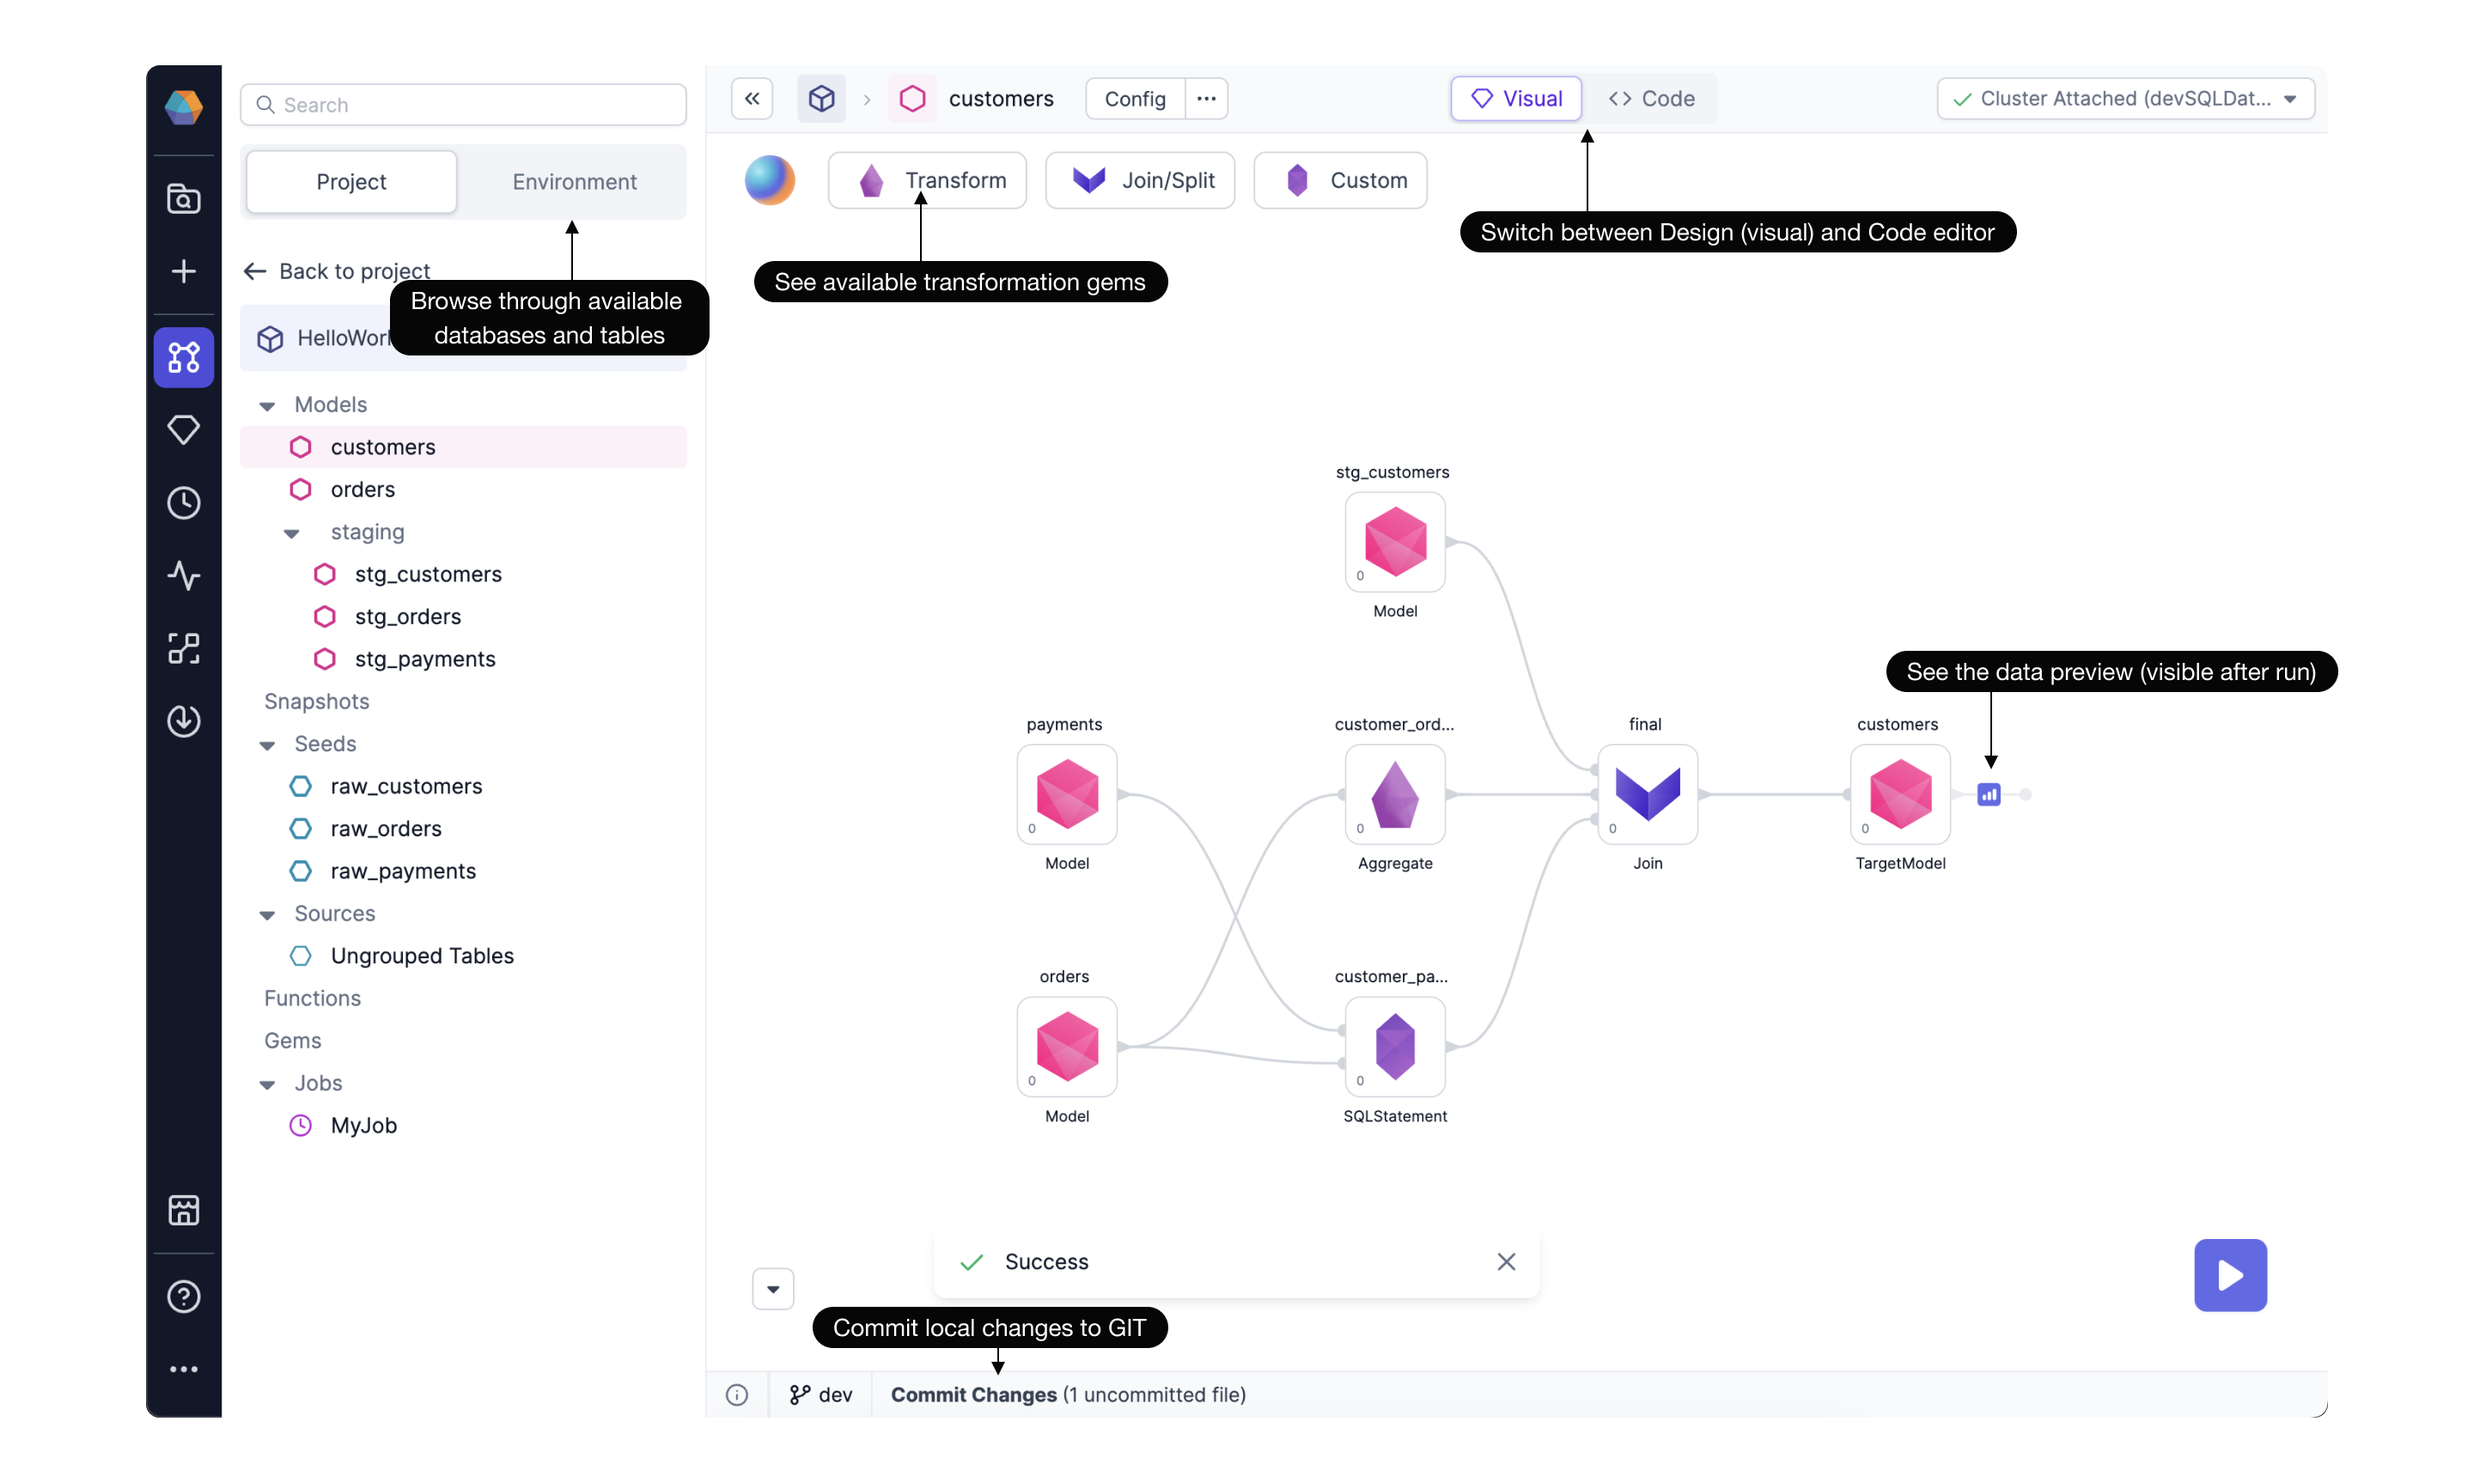
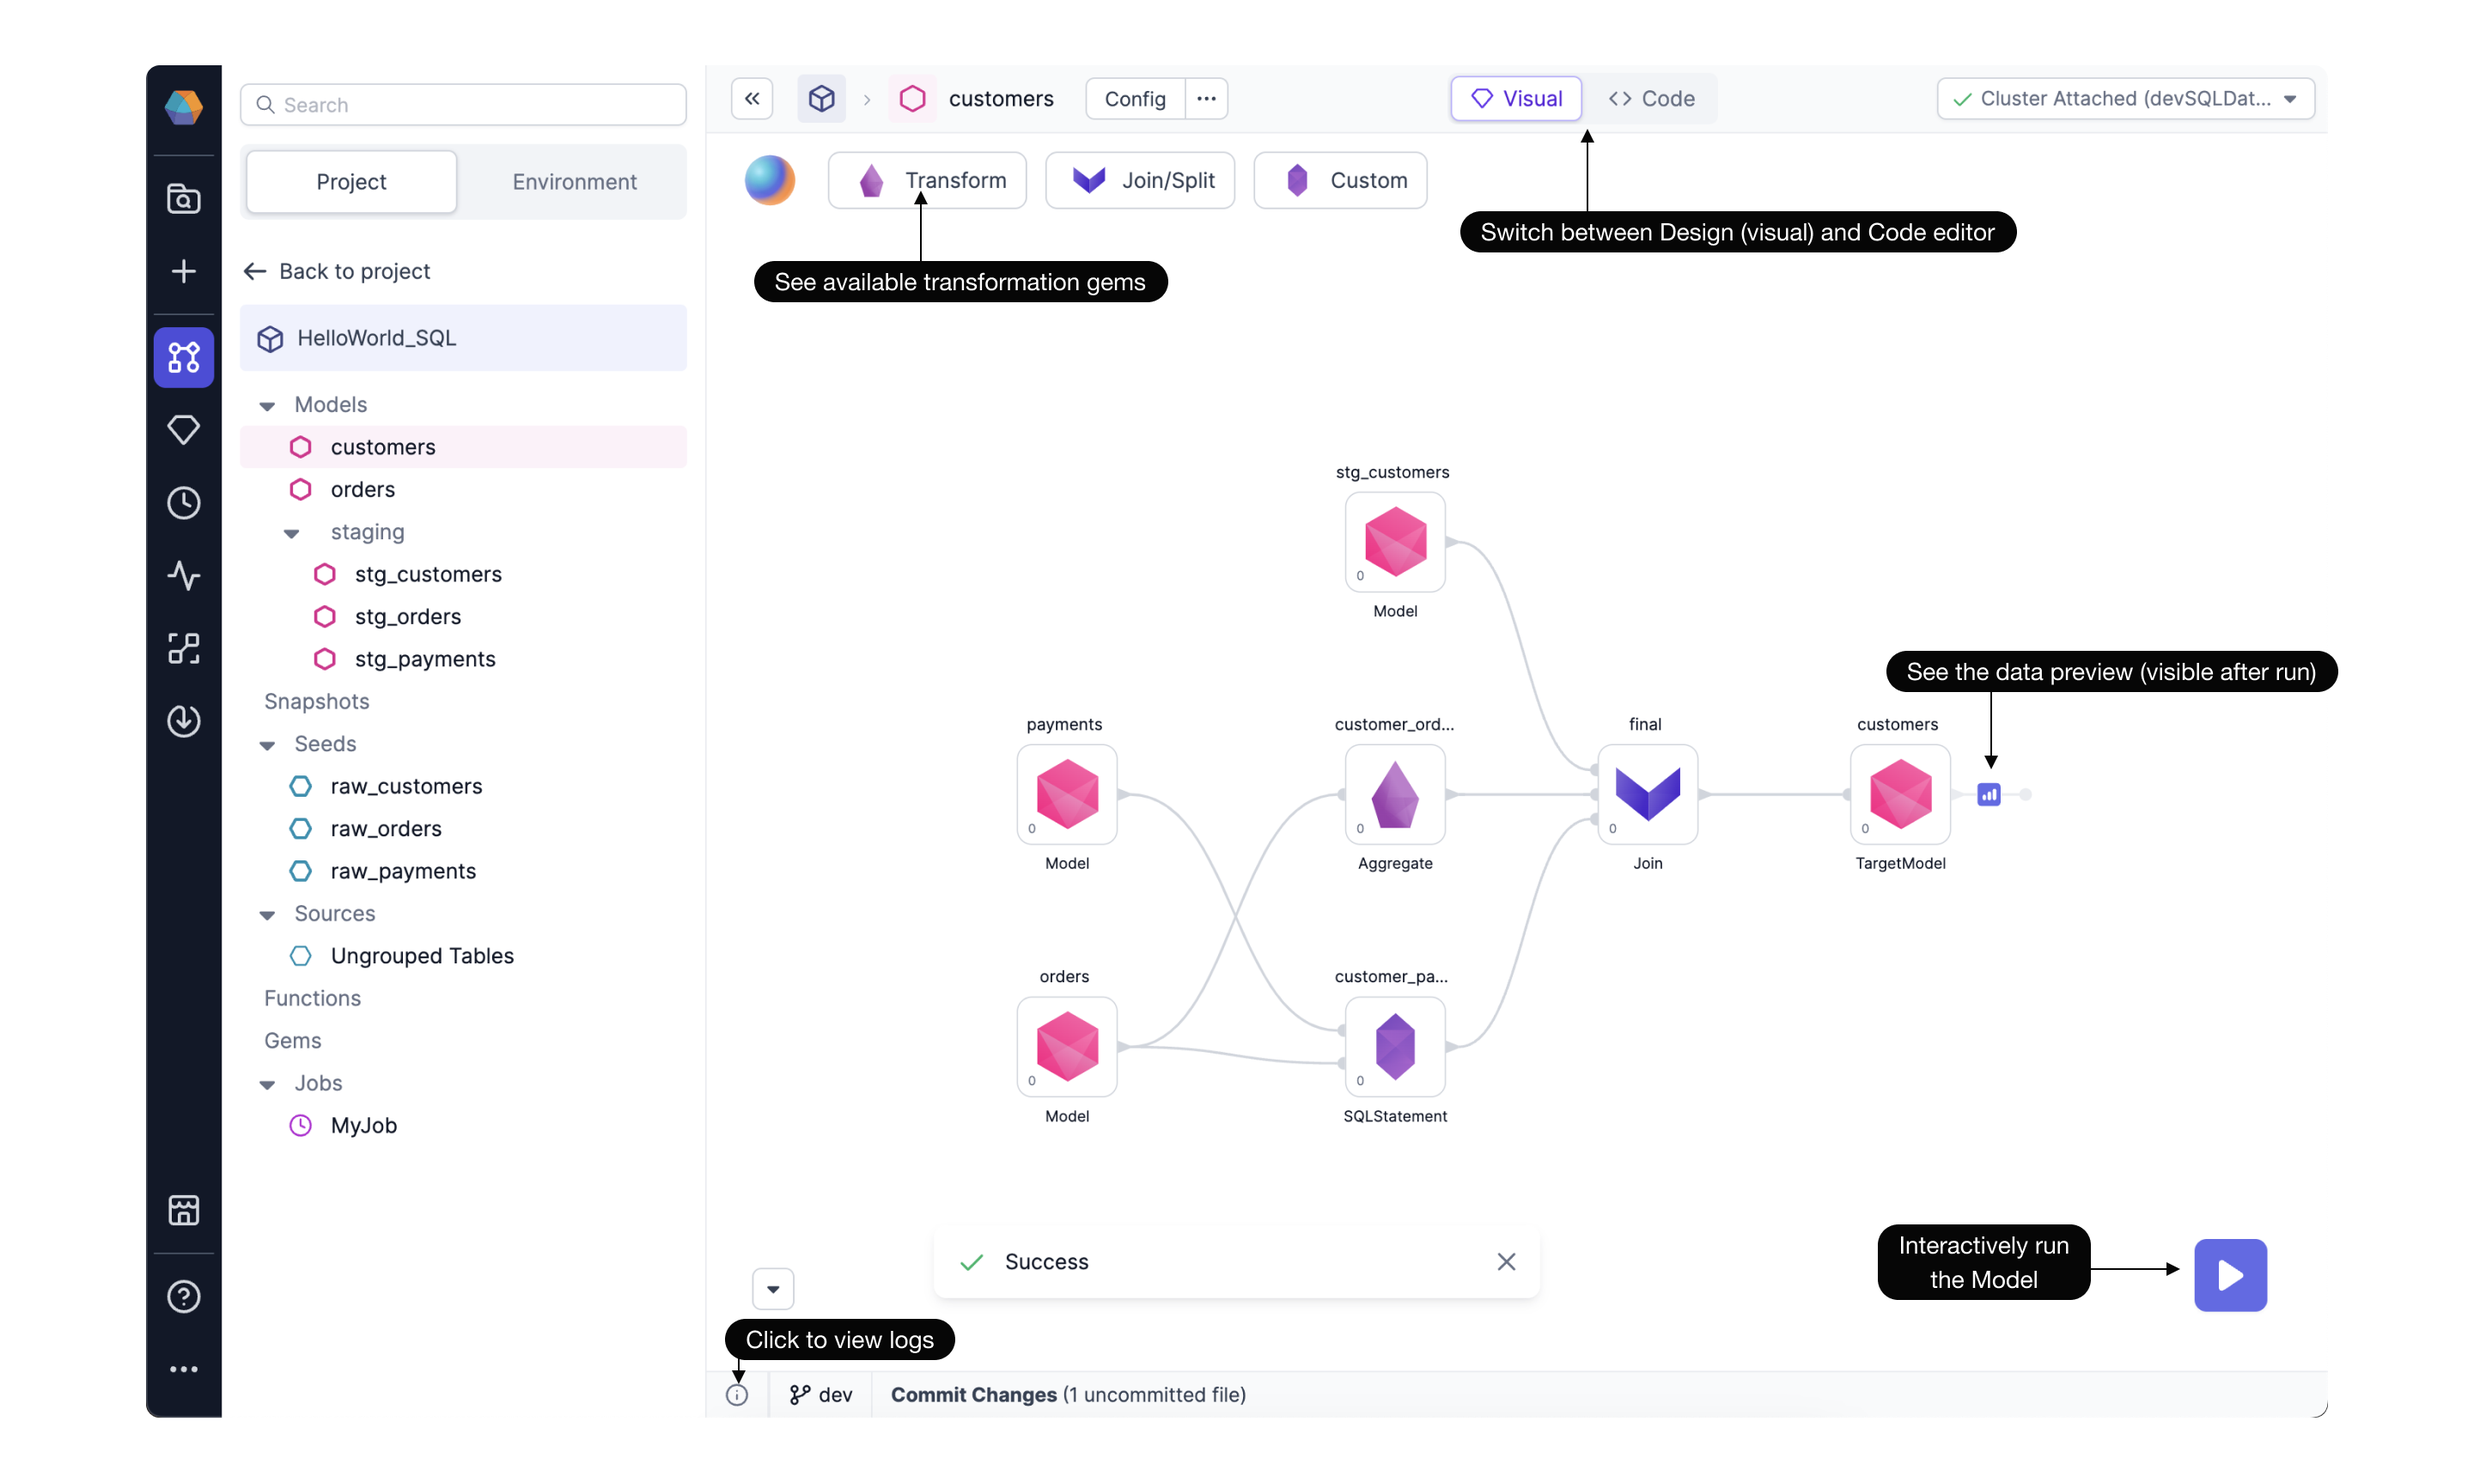
added text to dev page

Changed region(s): [[0.2812, 0.8598, 0.4688, 0.9212], [0.1562, 0.1842, 0.3125, 0.2457], [0.75, 0.8291, 0.8438, 0.8905]]

diff --git a/docs/low-code-sql/development/development.md b/docs/low-code-sql/development/development.md
@@ -13,20 +13,25 @@ tags:
   - ad-hoc
 ---
 
+Develop SQL Projects efficiently with Prophecy's Low-code canvas.
+
 ## Low-code Canvas
 
 The low-code canvas is the main place to develop data models.
-
-Open any SQL Project in Prophecy to find the complete end-to-end **Project Lineage**.
+Open any SQL Project in Prophecy to find the complete end-to-end **Project Lineage**. The Project Lineage provides a quick understanding of how Models refer to other Models, Seeds, or Sources. This quick, high-level project overview is explainable without having to read code.
 
 ![ProjectLineage](img/ProjectLineage.png)
 
-From here easily create new models by clicking on the "+" next to the Models pane or edit existing Models.
+The Project Browser displays entities available or used within this Project. Just click the Environment tab to browse through available databases and tables. Each Project connects to a Fabric, or execution environment. This Fabric defines the SQL Warehouse where each Model will materialize a single table or view. There are lots of additional features to learn more about, including configurations and committing code to Git. A single Project page contains lots of capabilities!
+
+From here easily create new models by clicking on the "+" next to the Models pane, or edit existing Models.
 ![AddModel](img/AddModel.png)
 
 Once a Model is open, the model-editing canvas appears.
 
 ![Canvas](img/Canvas.png)
+
+Here we can see the `customers` Model starts with three existing Models. The data is transformed according to Aggregate, SQLStatement, and Join Gems. The available Transformation Gems are available by clicking the dropdown menu. As the Model is being developed, iteratively run and see sample data as well as the relevant logs.
 
 ## Code = Visual
 
